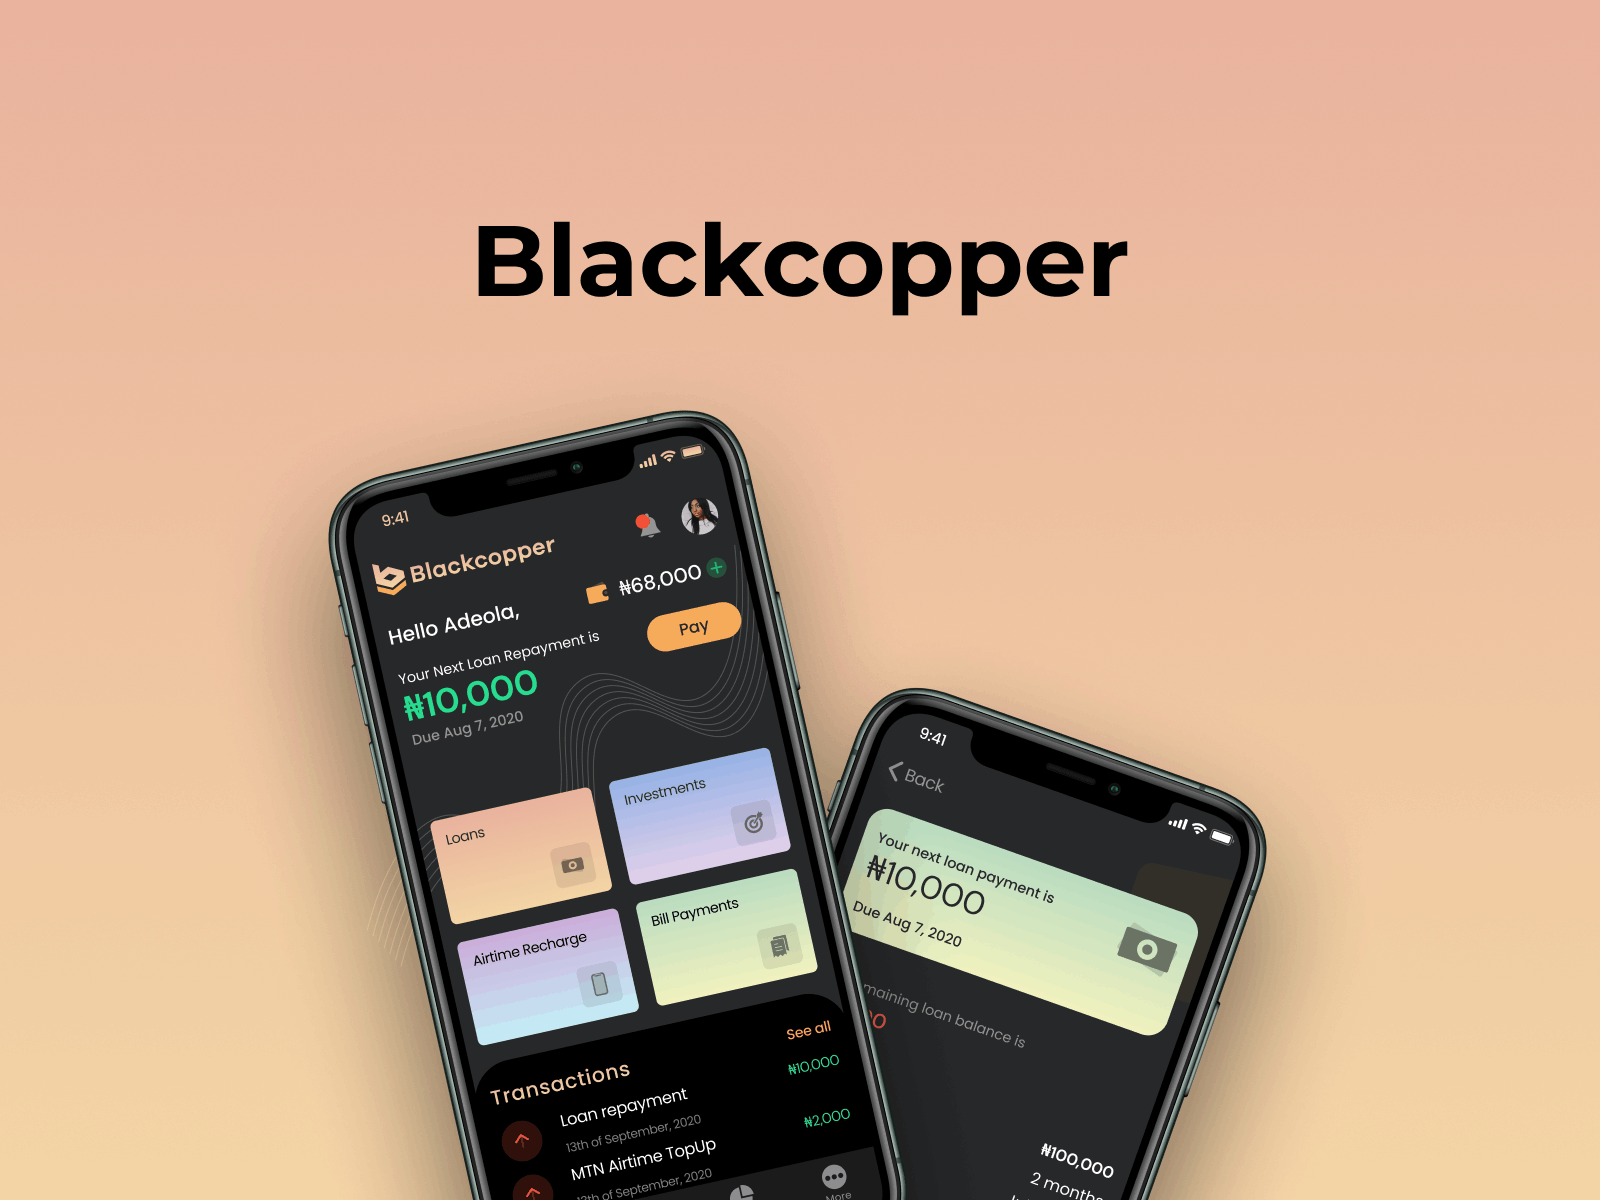
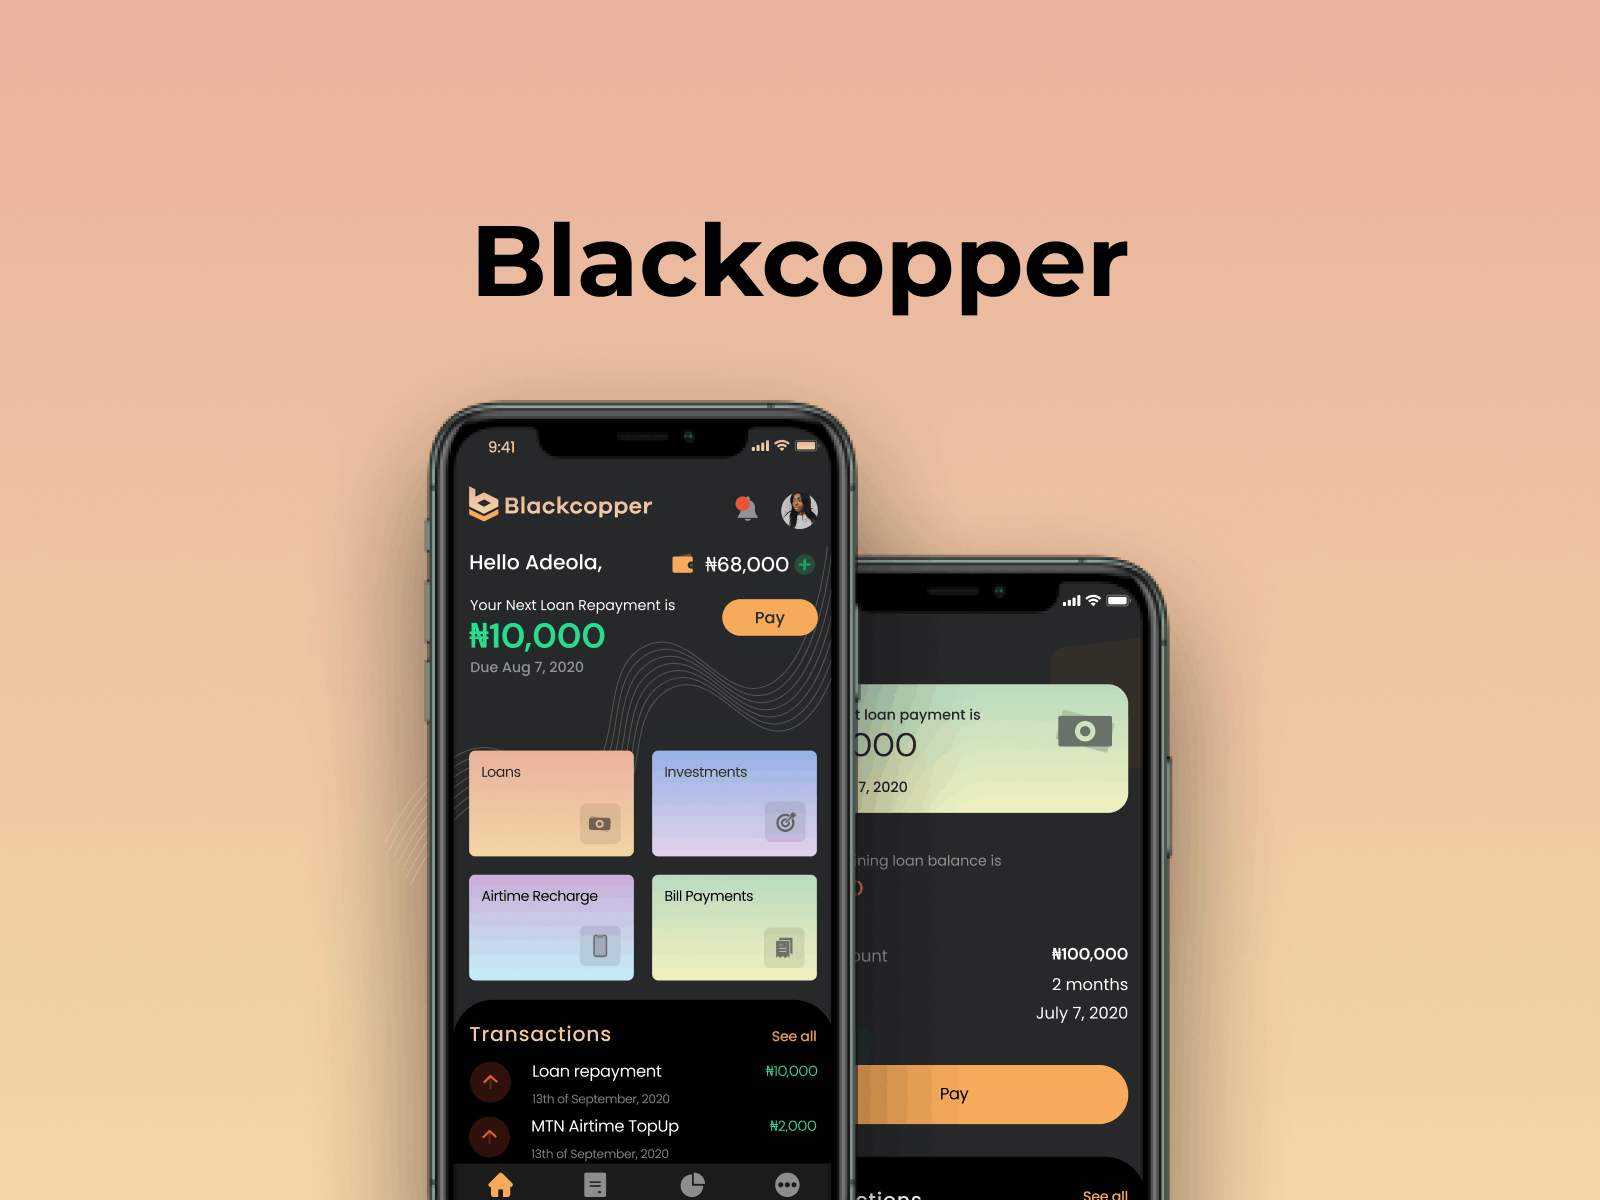
create github pages

Changed region(s): [[0.1562, 0.3083, 0.8125, 1.0]]

diff --git a/index.html b/index.html
@@ -122,19 +122,19 @@
             
         </div>
         <div class="row mt-4">
+            
             <div class="item features-image сol-12 col-md-6 col-lg-6">
                 <div class="item-wrapper">
                     <div class="item-img">
-                        <a href="assets/files/Blackcopper-FeaturedImage-min.pdf"><img src="assets/images/blackcopper-featured-image-1076x807.png" alt=""></a>
+                        <a href="assets/files/Gas-FirmFull.pdf"><img src="assets/images/gas-firm-800x600.png" alt=""></a>
                     </div>
                     
                     
                 </div>
-            </div>
-            <div class="item features-image сol-12 col-md-6 col-lg-6">
+            </div><div class="item features-image сol-12 col-md-6 col-lg-6">
                 <div class="item-wrapper">
                     <div class="item-img">
-                        <a href="assets/files/Open-Market-min.pdf"><img src="assets/images/open-market-featured-image-1355x1016.png" alt=""></a>
+                        <a href="assets/files/Blackcopper-FeaturedImage-min.pdf"><img src="assets/images/blackcopper-featured-image-1600x1200.png" alt=""></a>
                     </div>
                     
                     
